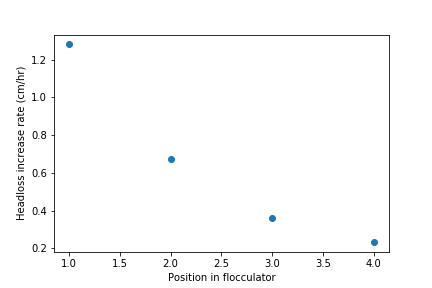
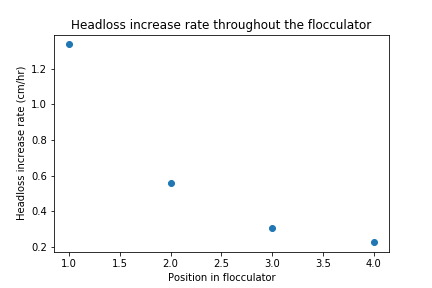
update

diff --git a/C-NARC Final Report.md b/C-NARC Final Report.md
@@ -1,6 +1,6 @@
 # Coagulant-Nanoparticle Attachment Rate Characterization, Spring 2019
 #### Ada Lian, Valentine Starnes, Yeonjin Yun
-#### March 15, 2019
+#### May 10th, 2019
 
 **[Felix: Hello! I will be making comments in these bolded square brackets.]**
 
@@ -84,8 +84,6 @@ $$ Tube Flow = RPM * V_{f}$$
 Therefore, the tube flow represents the amount of solution per time that has flowed through the tube. The mean velocity is then calculated from the tube flow divided by the cross sectional area of the tubing.
  $$u_{m} = \frac{TubeFlow}{\pi R²}$$
 
-<!-- Next, given that μ is the dynamic viscosity, the pressure gradient is found by the following formula:$$ \frac{ΔP}{ΔX} = \frac {8μU_{m}}{R²} $$ -->
-<!-- This pressure gradient represents how the pressure will vary within the tubing due to viscosity, velocity and radius. -->
 This mean velocity represents the average velocity of one coagulant nanoparticle flowing through the tube. Finally, the maximum velocity in fully developed velocity profile is given by the following formula:
 $$ v_{m} = 2u_{m} $$
 
@@ -101,10 +99,10 @@ $$ F_{d} = \frac {1}{2} C_{d} A \rho v^2$$
 Given a velocity of $5.769×10^{-6} m/s$, the calculated drag force was $-8.55*10^{-24}$ $\frac{kg*m}{s^2}$. The next step was to find the headloss from one coagulant nanoparticle on the tubing. The headloss was given by the formula:
 $$ H_{L} = \frac{-F_{d}}{\pi R² \rho g}
 $$
-The head loss was calculated as $5.968×10^{-21} cm$. This was compared to last semester’s results from 20 NTU.  Last semester’s hypothesis was that more coagulant will attach to the wall of the tubing due to less clay particles in the solution. Since the second and third pressure sensor had the expected inverse relationship, we picked the lowest NTU available (Sausele & Shah, 2018). In order to calculate the number of coagulant particles attached to the walls of the tubing, the average headloss at each pressure sensor was divided by the headloss of one coagulant particle.
+The head loss was calculated as $5.968×10^{-21} cm$. This was compared to last semester’s results from 20 NTU.  Last semester’s hypothesis was that more coagulant will attach to the wall of the tubing due to less clay particles in the solution. Since the second and third pressure sensor had the expected inverse relationship, we picked the lowest NTU available (Sausele & Shah, 2018). The data from 2 separate experiments ran at 20 NTU were averaged to give $H_{L,avg}$. In order to calculate the number of coagulant particles attached to the walls of the tubing, the average headloss at each pressure sensor was divided by the headloss of one coagulant particle obtained from above calculations.
 $$	Nanoparticles\:on\:wall = \frac {H_{L,avg}\:at\:one\:sensor}{H_{L}\:from\:1 \:coagulant}$$
 
-**[Is H_L,avg and H_L the same? Use one or the other if this is the case]**
+**[Is H_L,avg and H_L the same? Use one or the other if this is the case-AddressedVS]**
 
 This equation shows the number of nanoparticles from each section of the flocculator. The total number of nanoparticles attached to the whole flocculator tubing would be the sum of each total at the four pressure sensors. The total number of coagulant nanoparticles on the whole flocculator was $4.71 * 10^{20} \frac{particles}{hour}$.
 
@@ -118,7 +116,7 @@ The experimental setup, shown in Figure 3 and Figure 4, included the following: 
 align = "center"
 src= "https://github.com/AguaClara/Coagulant_nanoparticle_attachment_rate_characterization/blob/master/Images/Exptsetup.jpg?raw=true" >
 
-Figure 3: Experimental setup showing the flow of water, coagulant, and clay. Included in the experimental setup was the coiled flocculator with four attached pressure sensors.
+**Figure 3: Experimental setup showing the flow of water, coagulant, and clay. Included in the experimental setup was the coiled flocculator with four attached pressure sensors.**
 </div>
 
 <div style = "text-align:center">
@@ -126,7 +124,7 @@ Figure 3: Experimental setup showing the flow of water, coagulant, and clay. Inc
 align = "center"
 src= "https://github.com/AguaClara/Coagulant_nanoparticle_attachment_rate_characterization/blob/master/Images/exptsetup2.jpg?raw=true" >
 
-Figure 4: Image of the bench setup, including the modified coiled flocculator.
+**Figure 4: Image of the bench setup, including the modified coiled flocculator.**
 </div>
 
 The experiment setup shown models the water flow through a plant on a smaller, lab-sized scale as follows:
@@ -151,7 +149,7 @@ After each experimental trial, air bubbles were introduced into the system at 1 
 
 ### Procedure
 The system was fully automated through Process Control and Data Acquisition (ProCoDA) to run at the target turbidity, 20 NTU. PID CONTROL turned on the clay pump and ran for 15 minutes to allow for the system to reach and maintain the target turbidity. The next state, EXPERIMENT, started the coagulant pump and ran for three hours. This was the state from which the team collected the data. After EXPERIMENT, CLEANING (AIR) ran for four minutes. This state stoped the coagulant and clay pump, and started the 1 RPM air pump to introduce air into the system. The last state was CLEANING (WATER), which ran for five minutes and turned off the air pump to allow the water to force the air bubbles through the system. For more details on the team's ProCoDA method file, refer to the manual. ![ProCoDa_setup](/ProCoDa_setup.png)
-Figure 5: ProCoDA setup
+**Figure 5: ProCoDA setup**
 
 To run a experiment, the C-NARC ProCoDA method file was first opened and the blue influent valve was set to the open position. In manual operation, ProCoDA's state was changed to ON, which turned on the mixer and the water pump. The water pump was manually started at 76rpm and the red effluent valve was set to the open position after a brief delay to prevent back-flow of wastewater. Then, ProCoDA was switched from manual to automatic operation, after which the clay pump automatically turned on. Fifteen minutes later, before ProCoDA switched to the EXPERIMENT state, the pressure sensors were zeroed through ProCoDA. The experiment was left to run for three trials at the target turbidity **[turbidity-AddressedAL]**. Finally, the change in pressure and the accumulation of head loss in the flocculator were observed for each trial.
 
@@ -160,46 +158,47 @@ The velocity of flow at one coagulant particle adhered on the wall was calculate
 
 The calculated drag force was $-8.55*10^{-24}$ $\frac{kg*m}{s^2}$. The hypothesis was that at the team's experimental setup, the velocity was slow enough not to cause the formed flocs to dissociate, and **[and-AddressedAL]** consequently not to detach the coagulant particles on the wall ~~as well~~. Low velocity at ~~the~~ the nanoparticle resulted in low drag force on the nanoparticle. The sign on the drag force was negative, because drag force against the flow. Then the headloss caused by one coagulant particle on the wall was calculated to be $5.968×10^{-21} cm$ taking the size and density of the coagulant particle into account. Then the team utilized the experimental results from Fall 2018 at 20 NTU. The 20 NTU data was used not other turbidities, because the team's goal was to investigate coagulant nanoparticle attachment rate characterization rate at relatively low turbidity, which would better represent an actual plant NTU on normal days. Number of particles at each segment was calculated and organized in the table below.
 
-| Segment |  Headloss Average   | Number of nanoparticles on the wall |
+| Segment |  Total Headloss in segmant Average over 2 experiments/hour [cm/hr]   | Number of nanoparticles on the wall |
 |:------- |:--------:|:-----:|
-| 0  |  1.420  |$2.379×10^{20}$ |
-| 1  |  0.736 | $1.233×10^{20}$|
-| 2  |  0.389    | $6.518×10^{19}$ |
-| 3  | 0.264    | $4.424×10^{19}$|
-| Total  |  2.809   | $4.707×10^{20}$|
+| 0  |  1.260  |$2.111×10^{20}$ |
+| 1  |  0.728 | $1.220×10^{20}$|
+| 2  |  0.353    | $5.915×10^{19}$ |
+| 3  | 0.243    | $4.072×10^{19}$|
+| Total  |  2.584   | $4.330×10^{20}$|
 
-Table 2: Shows the average headloss and calculated number of nanoparticles on the flocculator wall.
+**Table 2: Shows the average headloss and calculated number of nanoparticles on the flocculator wall.**
 
-**[Table requires units for headloss avg! Perhaps use the full name of average headloss per nanoparticle or average headloss for one nanoparticle]**
+**[Table requires units for headloss avg! Perhaps use the full name of average headloss per nanoparticle or average headloss for one nanoparticle_AddressedYY]**
 
 <img
 align = "center"
 src= "https://github.com/AguaClara/Coagulant_nanoparticle_attachment_rate_characterization/blob/master/Headloss_Graph.png?raw=true">
-Figure 6: Headloss change over time at 20 NTU.
+**Figure 6: Headloss change over time at 20 NTU.**
 
-The total number of particles on the wall throughout the entire flocculator was calculated to be $4.707 * 10^{20} \frac{particles}{hour}$. The number seemed huge, but this was number of particles not number of moles of particles, so it was actually less than 1 mol of coagulant nanoparticles attaching to the wall. This **[also]** lined up with the expectations ~~as well~~ that coagulant particles should not adhere to the wall, but should adhere to the clay particles in water. However, it was still unclear how many coagulant particles are in suspension or are attached to the clay particles, so there was no clear relationship identified about how much fraction was attaching to the wall compared to how much entered the flocculator.
+The total number of particles on the wall throughout the entire flocculator was calculated to be $4.707 * 10^{20} \frac{particles}{hour}$. The number seemed huge, but this was number of particles not number of moles of particles, so it was actually less than 1 mol of coagulant nanoparticles attaching to the wall. This also **[also_addressedYY]** lined up with the expectations ~~as well~~ that coagulant particles should not adhere to the wall, but should adhere to the clay particles in water. However, it was still unclear how many coagulant particles are in suspension or are attached to the clay particles, so there was no clear relationship identified about how much fraction was attaching to the wall compared to how much entered the flocculator.
 
 The position in the flocculator and headloss increase rate were plotted to identify the relationship.
 <img
 align = "center"
 src= "https://github.com/AguaClara/Coagulant_nanoparticle_attachment_rate_characterization/blob/master/Headloss_Rate_Graph.png?raw=true">
-Figure 7: Headloss increase rate throughout position change in flocculator at 20 NTU.
+**Figure 7: Headloss increase rate throughout position change in flocculator at 20 NTU.**
 
 As shown in the graph, although the segments of the flocculator have equal length, the rate did not decrease linearly. The assumption was that the rate of headloss increase will linearly decrease as going through the flocculator, because there will be less particles to attach to the walls of the flocculator. The reason might be that there was an unknown relationship between headloss and position in the flocculator.
 
-However, when the total headloss change from the beginning of the flocculator to the end of the flocculator was plotted over time, it was shown that the relationship was still linear. **[If this confirms your original assumption that rate of headloss increase will linearly decrease then you should state that explicitly, because the last figure seems to contradict that assumption! If I don't know what I'm talking about just ignore this haha.x ]**
+However, when the total headloss change from the beginning of the flocculator to the end of the flocculator was plotted over time, it was shown that the relationship was still linear.
+**[If this confirms your original assumption that rate of headloss increase will linearly decrease then you should state that explicitly, because the last figure seems to contradict that assumption! If I don't know what I'm talking about just ignore this haha.x _addressedYY]**
 
 <img
 align = "center"
 src= "https://github.com/AguaClara/Coagulant_nanoparticle_attachment_rate_characterization/blob/master/Total_Headloss_Graph.png?raw=true">
-Figure 8: Total Headloss change in flocculator over time at 20 NTU.
+**Figure 8: Total Headloss change in flocculator over time at 20 NTU.**
 
 All calculations are compiled in [Calculation.md file](https://github.com/AguaClara/Coagulant_nanoparticle_attachment_rate_characterization/blob/master/Calculation.md) in the C-NARC team's repository and as python codes in manual.
 
 ## Conclusions
-The C-NARC team focused on the theoretical calculations to find the headloss from one coagulant nanoparticle attached to the walls on the flocculator for the first half of the semester. This was then compared to the average headloss from each pressure sensor to find the total number of coagulant nanoparticles on the tubing. This value is important to AguaClara in the lab because if coagulant is attaching to the walls, the rate and total amount of attachment to clay particles will be decreased. The number of coagulant nanoparticles on the walls also varies with respect to turbidity levels in which rate attachment to the walls are higher at lower NTUs. **[This is because]** At lower turbidity levels, there are fewer clay particles in solution and therefore the coagulant will attach to the walls faster than if there were more clay particles to attach to.
+The C-NARC team focused on the theoretical calculations to find the headloss from one coagulant nanoparticle attached to the walls on the flocculator for the first half of the semester. This was then compared to the average headloss from each pressure sensor to find the total number of coagulant nanoparticles on the tubing. This value is important to AguaClara in the lab because if coagulant is attaching to the walls, the rate and total amount of attachment to clay particles will be decreased. The number of coagulant nanoparticles on the walls also varies with respect to turbidity levels in which rate attachment to the walls are higher at lower NTUs. **[This is because_addressedYY]** This is because at lower turbidity levels, there are fewer clay particles in solution and therefore the coagulant will attach to the walls faster than if there were more clay particles to attach to.
 
-In the second half of the semester, the C-NARC team will be focused on finding the attachment rate of coagulant nanoparticles to clay particles. This will be important in finding optimal flow rates and turbidity levels in which minimal head loss occurs so the least amount of coagulant is wasted in Aguaclara plants.
+In the second half of the semester, the C-NARC team will be focused on finding the attachment rate of coagulant nanoparticles to clay particles. This will be important in finding optimal flow rates and turbidity levels in which minimal head loss occurs so the least amount of coagulant is wasted in AguaClara plants.
 
 ## Future Work
 Currently, the team was able to find out the number of nanoparticles sticking to the flocculator wall, however, the team still needs to figure out the number of nanoparticles sticking to clay and in suspension.
@@ -208,14 +207,12 @@ Although the team figured out the total number of coagulant nanoparticles in sus
 
 An additional challenge for the future team has would be figuring out how the difference in NTU affects the number of nanoparticles in the three different locations **[Why at the 3 different locations? It isn't clear from the next sentence that NTU would affect the three locations differently, since it seems to apply universally. And is the next sentence a valid assumption or something that is just used as an example that may not be true?-AddressedAL]**. For example, at higher NTU there would be less coagulant in suspension and on the flocculator wall because there are more clay particles for the coagulant nanoparticles to attach to.
 
-Furthermore, it would be interesting to see the data on experiments with only water and coagulant. While it is expected that there will be a linear change in slopes between the different sections in the flocculator, it may show a nonlinear decrease in the particles on the wall. This could be explained by the fact that some clay particles attached to coagulant are sticking to the flocculator wall together. Additionally, before running any additional experiments, it is important to calibrate the pressure sensors to ensure that the experimental data is accurate. 
-
-
+Furthermore, it would be interesting to see the data on experiments with only water and coagulant. While it is expected that there will be a linear change in slopes between the different sections in the flocculator, it may show a nonlinear decrease in the particles on the wall. This could be explained by the fact that some clay particles attached to coagulant are sticking to the flocculator wall together. Additionally, before running any additional experiments, it is important to calibrate the pressure sensors to ensure that the experimental data is accurate.
 
 ## References
 Gebbie, P. (2006). An Operator's Guide to Water Treatment Coagulants [PDF file]. Retrieved from http://wioa.org.au/conference_papers/06_qld/documents/PeterGebbie.pdf
 
-Weber-Shirk, M., Guzman, J., O'Connor, C., Pennock, W., Lion, L. & Du, Y. (2018). *Aguaclara Textbook*. Retrieved from https://aguaclara.github.io/Textbook/index.html.
+Weber-Shirk, M., Guzman, J., O'Connor, C., Pennock, W., Lion, L. & Du, Y. (2018). *AguaClara Textbook*. Retrieved from https://aguaclara.github.io/Textbook/index.html.
 
 Sausele D., Shah, M., (2018). Coagulant Nanoparticle Attachment Rate Characterization, Fall 2018 Retrieved from https://github.com/AguaClara/Coagulant_nanoparticle_attachment_rate_characterization/blob/master/C-NARC%20Report.md
 
@@ -232,7 +229,7 @@ Velocity Profile for Tube Flow. (n.d.) Retrieved March 15, 2019, from http://hyp
 align = "center"
 src= "https://github.com/AguaClara/Coagulant_nanoparticle_attachment_rate_characterization/blob/master/Images/Exptsetup.jpg?raw=true" >
 
-Figure 9: Experimental setup including the coiled flocculator with four attached pressure sensors.
+**Figure 9: Experimental setup including the coiled flocculator with four attached pressure sensors.**
 </div>
 
 
@@ -241,7 +238,7 @@ Figure 9: Experimental setup including the coiled flocculator with four attached
 align = "center"
 src= "https://github.com/AguaClara/Coagulant_nanoparticle_attachment_rate_characterization/blob/master/Images/flocculator.jpg?raw=true" >
 
-Figure 10: Modified coiled flocculator with four pressure sensors attached.
+**Figure 10: Modified coiled flocculator with four pressure sensors attached.**
 </div>
 
 #### Materials
@@ -351,20 +348,27 @@ import numpy as np
 import pandas as pd
 import scipy.stats as stats
 
-columns = pp.get_data_by_time(path=data_path, columns=[0,1,2,3,4], start_date="5-2-2019", start_time="13:30", end_time="17:22")
+columns1 = pp.get_data_by_time(path=data_path, columns=[0,1,2,3,4], start_date="11-28-2018", start_time="13:49", end_time="16:42")
 
+time1 = columns1[0]
+pressure11 = columns1[1]
+pressure12 = columns1[2]
+pressure13 = columns1[3]
+pressure14 = columns1[4]
 
-time = columns[0]
-pressure1 = columns[1]
-pressure2 = columns[2]
-pressure3 = columns[3]
-pressure4 = columns[4]
+columns2 = pp.get_data_by_time(path=data_path, columns=[0,1,2,3,4], start_date="11-28-2018", start_time="13:49", end_time="16:42")
 
-elapsed_time = (np.array(time)-time[0])*24
-pressure1 = (np.array(pressure1)-pressure1[0])
-pressure2 = -(np.array(pressure2)-pressure2[0])
-pressure3 = -(np.array(pressure3)-pressure3[0])
-pressure4 = -(np.array(pressure4)-pressure4[0])
+time2 = columns2[0]
+pressure21 = columns2[1]
+pressure22 = columns2[2]
+pressure23 = columns2[3]
+pressure24 = columns2[4]
+
+elapsed_time = ((np.array(time1)-time1[0])+(np.array(time2)-time2[0]))*24/2
+pressure1 = ((np.array(pressure11)-pressure11[0])+(np.array(pressure21)-pressure21[0]))/2
+pressure2 = ((np.array(pressure12)-pressure12[0])+(np.array(pressure22)-pressure22[0]))/2
+pressure3 = ((np.array(pressure13)-pressure13[0])+(np.array(pressure23)-pressure23[0]))/2
+pressure4 = ((np.array(pressure14)-pressure14[0])+(np.array(pressure24)-pressure24[0]))/2
 
 plt.xlabel("Time (hours)")
 plt.ylabel("Headloss (cm)")
@@ -373,7 +377,8 @@ line2,=plt.plot(elapsed_time,pressure2, color="red")
 line3,=plt.plot(elapsed_time,pressure3, color="orange")
 line4,=plt.plot(elapsed_time,pressure4, color="green")
 plt.legend((line1,line2,line3,line4),("7kPa1","7kPa2","7kPa3","7kPa4"))
-plt.savefig('Headloss_Graph.png')
+plt.title('Headloss over Time 2 Trials Averaged')
+plt.savefig('Headloss_Graph_fin.png')
 
 linreg1 = stats.linregress(elapsed_time, pressure1)
 slope1, intercept1, r_value1 = linreg1[0:3]
@@ -397,12 +402,14 @@ print("R-squared4:", r_value4 ** 2)
 plt.xlabel("Position in flocculator")
 plt.ylabel("Headloss increase rate (cm/hr)")
 lines=plt.plot([1,2,3,4],[slope1,slope2,slope3,slope4], 'o')
+plt.title('Headloss increase rate throughout the flocculator')
 plt.savefig('Headloss_Rate_Graph.png')
 
 pressuretot=pressure1+pressure2+pressure3+pressure4
 plt.xlabel("Time (hours)")
 plt.ylabel("Headloss (cm)")
 linetot=plt.plot(elapsed_time,pressuretot, color="blue")
+plt.title('Total Headloss change over entire flocculator')
 plt.savefig('Total_Headloss_Graph.png')
 ```
 
